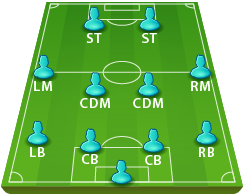
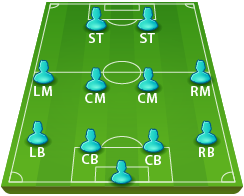
Added new formations data

diff --git a/src/data/formations.js b/src/data/formations.js
@@ -99,9 +99,191 @@ const formation442 = [
     }    
 ]
 
-const formation433 = []
+const formation433 = [
+    { 
+        fieldPosition: 'GK',
+        player: PLAYER_DATA,
+        links: [{positionIndex: 2, chemistryLine: '70', chemistry: null}, 
+                {positionIndex: 3, chemistryLine:'110', chemistry: null}],
+        chemistry: 0
+    },
+    {   
+        fieldPosition: 'RB',
+        player: PLAYER_DATA,
+        links: [{positionIndex: 2, chemistryLine:'180', chemistry: null}, 
+                {positionIndex: 5, chemistryLine:'110', chemistry: null}],
+        chemistry: 0
+    },
+    {   
+        fieldPosition: 'CB',
+        player: PLAYER_DATA,
+        links: [{positionIndex: 3, chemistryLine:'180', chemistry: null}, 
+                {positionIndex: 6, chemistryLine:'110', chemistry: null}, 
+                {positionIndex: 0, chemistryLine: null, chemistry: null}, 
+                {positionIndex: 1, chemistryLine: null, chemistry: null}],
+        chemistry: 0
+    },
+    {   
+        fieldPosition: 'CB',
+        player: PLAYER_DATA,
+        links: [{positionIndex: 6, chemistryLine: '70', chemistry: null},
+                {positionIndex: 4, chemistryLine: '180', chemistry: null}, 
+                {positionIndex: 0, chemistryLine: null, chemistry: null}, 
+                {positionIndex: 2, chemistryLine: null, chemistry: null}],
+        chemistry: 0
+    },
+    {   
+        fieldPosition: 'LB',
+        player: PLAYER_DATA,
+        links : [{positionIndex: 7, chemistryLine: '70', chemistry: null}, 
+                 {positionIndex: 3, chemistryLine: null, chemistry: null}],
+        chemistry: 0
+    },
+    { 
+        fieldPosition: 'CM',
+        player: PLAYER_DATA,
+        links: [{positionIndex: 8, chemistryLine: '90', chemistry: null}, 
+                {positionIndex: 6, chemistryLine: '180', chemistry: null}, 
+                {positionIndex: 1, chemistryLine: null, chemistry: null}],
+        chemistry: 0
+    },
+    { 
+        fieldPosition: 'CM',
+        player: PLAYER_DATA,
+        links: [{positionIndex: 7, chemistryLine: '180', chemistry: null}, 
+                {positionIndex: 9, chemistryLine: '90', chemistry: null}, 
+                {positionIndex: 2, chemistryLine: null, chemistry: null}, 
+                {positionIndex: 3, chemistryLine: null, chemistry: null},
+                {positionIndex: 5, chemistryLine: null, chemistry: null}],
+        chemistry: 0
+    },
+    { 
+        fieldPosition: 'CM',
+        player: PLAYER_DATA,
+        links: [{positionIndex: 10, chemistryLine: '90', chemistry: null}, 
+                {positionIndex: 6, chemistryLine: null, chemistry: null}, 
+                {positionIndex: 4, chemistryLine: null, chemistry: null}],
+        chemistry: 0
+    },
+    { 
+        fieldPosition: 'RW',
+        player: PLAYER_DATA,
+        links: [{positionIndex: 9, chemistryLine:'180', chemistry: null}, 
+                {positionIndex: 5, chemistryLine: null, chemistry: null}],
+        chemistry: 0
+    },
+    { 
+        fieldPosition: 'ST',
+        player: PLAYER_DATA,
+        links: [{positionIndex: 10, chemistryLine: '180', chemistry: null}, 
+                {positionIndex: 8, chemistryLine: null, chemistry: null},
+                {positionIndex: 6, chemistryLine: null, chemistry: null}],
+        chemistry: 0
+    },
+    { 
+        fieldPosition: 'LW',
+        player: PLAYER_DATA,
+        links: [{positionIndex: 7, chemistryLine: null, chemistry: null}, 
+                {positionIndex: 9, chemistryLine: null, chemistry: null}],
+        chemistry: 0
+    }    
+]
 
-const formation343 = []
+
+const formation343 = [
+    { 
+        fieldPosition: 'GK',
+        player: PLAYER_DATA,
+        links: [{positionIndex: 1, chemistryLine: '45', chemistry: null}, 
+                {positionIndex: 2, chemistryLine: '90', chemistry: null}, 
+                {positionIndex: 3, chemistryLine: '135', chemistry: null}],
+        chemistry: 0
+    },
+    {   
+        fieldPosition: 'CB',
+        player: PLAYER_DATA,
+        links: [{positionIndex: 2, chemistryLine:'180', chemistry: null},
+                {positionIndex: 0, chemistryLine: null, chemistry: null}, 
+                {positionIndex: 4, chemistryLine:'70', chemistry: null}],
+        chemistry: 0
+    },
+    {   
+        fieldPosition: 'CB',
+        player: PLAYER_DATA,
+        links: [{positionIndex: 3, chemistryLine:'180', chemistry: null}, 
+                {positionIndex: 6, chemistryLine:'110', chemistry: null},
+                {positionIndex: 5, chemistryLine: '70', chemistry: null},  
+                {positionIndex: 0, chemistryLine: null, chemistry: null}, 
+                {positionIndex: 1, chemistryLine: null, chemistry: null}],
+        chemistry: 0
+    },
+    {   
+        fieldPosition: 'CB',
+        player: PLAYER_DATA,
+        links: [{positionIndex: 7, chemistryLine: '110', chemistry: null}, 
+                {positionIndex: 0, chemistryLine: null, chemistry: null}, 
+                {positionIndex: 2, chemistryLine: null, chemistry: null}],
+        chemistry: 0
+    },
+    {   
+        fieldPosition: 'RM',
+        player: PLAYER_DATA,
+        links : [{positionIndex: 5, chemistryLine: '180', chemistry: null},
+                 {positionIndex: 8, chemistryLine: '110', chemistry: null}, 
+                 {positionIndex: 1, chemistryLine: null, chemistry: null}],
+        chemistry: 0
+    },
+    { 
+        fieldPosition: 'CM',
+        player: PLAYER_DATA,
+        links: [{positionIndex: 9, chemistryLine: '110', chemistry: null},
+                {positionIndex: 6, chemistryLine: '180', chemistry: null}, 
+                {positionIndex: 4, chemistryLine: null, chemistry: null}, 
+                {positionIndex: 2, chemistryLine: null, chemistry: null}],
+        chemistry: 0
+    },
+    { 
+        fieldPosition: 'CM',
+        player: PLAYER_DATA,
+        links: [{positionIndex: 7, chemistryLine: '180', chemistry: null}, 
+                {positionIndex: 9, chemistryLine: '70', chemistry: null}, 
+                {positionIndex: 2, chemistryLine: null, chemistry: null}, 
+                {positionIndex: 5, chemistryLine: null, chemistry: null}],
+        chemistry: 0
+    },
+    { 
+        fieldPosition: 'LM',
+        player: PLAYER_DATA,
+        links: [{positionIndex: 10, chemistryLine: '70', chemistry: null}, 
+                {positionIndex: 6, chemistryLine: null, chemistry: null}, 
+                {positionIndex: 3, chemistryLine: null, chemistry: null}],
+        chemistry: 0
+    },
+    { 
+        fieldPosition: 'RW',
+        player: PLAYER_DATA,
+        links: [{positionIndex: 9, chemistryLine:'180', chemistry: null}, 
+                {positionIndex: 4, chemistryLine: null, chemistry: null}],
+        chemistry: 0
+    },
+    { 
+        fieldPosition: 'ST',
+        player: PLAYER_DATA,
+        links: [{positionIndex: 10, chemistryLine: '180', chemistry: null}, 
+                {positionIndex: 8, chemistryLine: null, chemistry: null},
+                {positionIndex: 5, chemistryLine: null, chemistry: null},
+                {positionIndex: 6, chemistryLine: null, chemistry: null}],
+        chemistry: 0
+    },
+    { 
+        fieldPosition: 'LW',
+        player: PLAYER_DATA,
+        links: [{positionIndex: 7, chemistryLine: null, chemistry: null}, 
+                {positionIndex: 9, chemistryLine: null, chemistry: null}],
+        chemistry: 0
+    }    
+]
+
     
 const formationData = [formation442, formation433, formation343]
 

diff --git a/src/components/layout/StartMenu.js b/src/components/layout/StartMenu.js
@@ -2,17 +2,38 @@ import React from 'react';
 import {useDispatch} from 'react-redux';
 import {startDraft} from '../../store/actions';
 import data from '../../data/formations.js'
-
-
     
-function StartMenu()  {
+const StartMenu = () => {
+
     const dispatch = useDispatch();
 
     const formations = JSON.parse(JSON.stringify(data))
 
     return (
         <div id="bench"> 
-            <p> ¿Empezamos?: <button onClick={() => dispatch(startDraft(formations[0]))}>Start</button> </p>
+            <p> Elige formación: </p>
+
+            <img 
+            src={process.env.PUBLIC_URL+"/img/formations/442.png"}
+            onClick={() => dispatch(startDraft(formations[0]))}
+            className="formationCard"
+            alt="Formación"
+            />
+
+            <img 
+            src={process.env.PUBLIC_URL+"/img/formations/433.png"}
+            onClick={() => dispatch(startDraft(formations[1]))}
+            className="formationCard"
+            alt="Formación"
+            />
+
+            <img 
+            src={process.env.PUBLIC_URL+"/img/formations/343.png"}
+            onClick={() => dispatch(startDraft(formations[2]))}
+            className="formationCard"
+            alt="Formación"
+            />
+            
         </div>
     )
 }

diff --git a/src/components/draft/Field.js b/src/components/draft/Field.js
@@ -22,10 +22,16 @@ const Field = (props) => {
 
         let players = props.formation.map( (player, i) => <Player key={i} index={i}/>)
 
+        const formation433=[1,5,8]
+
+        const formation442=[1,5,9]
+
+        const formation343=[1,4,8]
+
         return [
-            <div key="attack" className="flex grid"> {players.slice(9,11)} </div>,
-            <div key="midfield" className="flex grid"> {players.slice(5,9)} </div>,
-            <div key="defense" className="flex grid"> {players.slice(1,5)} </div>,
+            <div key="attack" className="flex grid"> {players.slice(8,11)} </div>,
+            <div key="midfield" className="flex grid"> {players.slice(4,8)} </div>,
+            <div key="defense" className="flex grid"> {players.slice(1,4)} </div>,
             <div key="goalkeeper" className="flex grid"> {players.slice(0,1)} </div>
         ]
     }

diff --git a/src/data/jugadores.js b/src/data/jugadores.js
@@ -26,6 +26,33 @@ const jugadores = [
         rating: 94,
         cardImage: process.env.PUBLIC_URL + '/img/ronaldo.png'
     },
+        {
+        position:'CB',
+        role:'midfield',
+        nation:'France',
+        league:'La Liga',
+        club:'Real Madrid',
+        rating: 89,
+        cardImage: process.env.PUBLIC_URL + '/img/varane.png'
+    },
+    {
+        position:'CM',
+        role:'midfield',
+        nation:'Chile',
+        league:'La Liga',
+        club:'Barcelona',
+        rating: 85,
+        cardImage: process.env.PUBLIC_URL + '/img/vidal.png'
+    },
+    {
+        position:'GK',
+        role:'goalkeeper',
+        nation:'Belgium',
+        league:'La Liga',
+        club:'Real Madrid',
+        rating: 91,
+        cardImage: process.env.PUBLIC_URL + '/img/courtois.png'
+    }
 ]
 
 export default jugadores

diff --git a/src/store/reducers.js b/src/store/reducers.js
@@ -11,6 +11,16 @@ const startReducer = (state = false, action) => {
     }
 }
 
+const squadReducer = (state=null, action) => {
+    switch(action.type) {
+        case 'START_DRAFT':
+            return action.payload
+        
+        default:
+            return state
+    }
+}
+
 const formationReducer = (state = [], action) => {
     switch(action.type) {
         case 'START_DRAFT':

diff --git a/src/styles/style.css b/src/styles/style.css
@@ -80,6 +80,19 @@ body {
 
 .playerCard:hover {
     transform: scale(1.15);
+    cursor: pointer;
+}
+
+.formationCard {
+    width: 28vh;
+    height: 25vh;
+    z-index: 900;
+    padding: 2vh;
+}
+
+
+.formationCard:hover {
+    cursor: pointer;
 }
 
 .playerChemistry {
